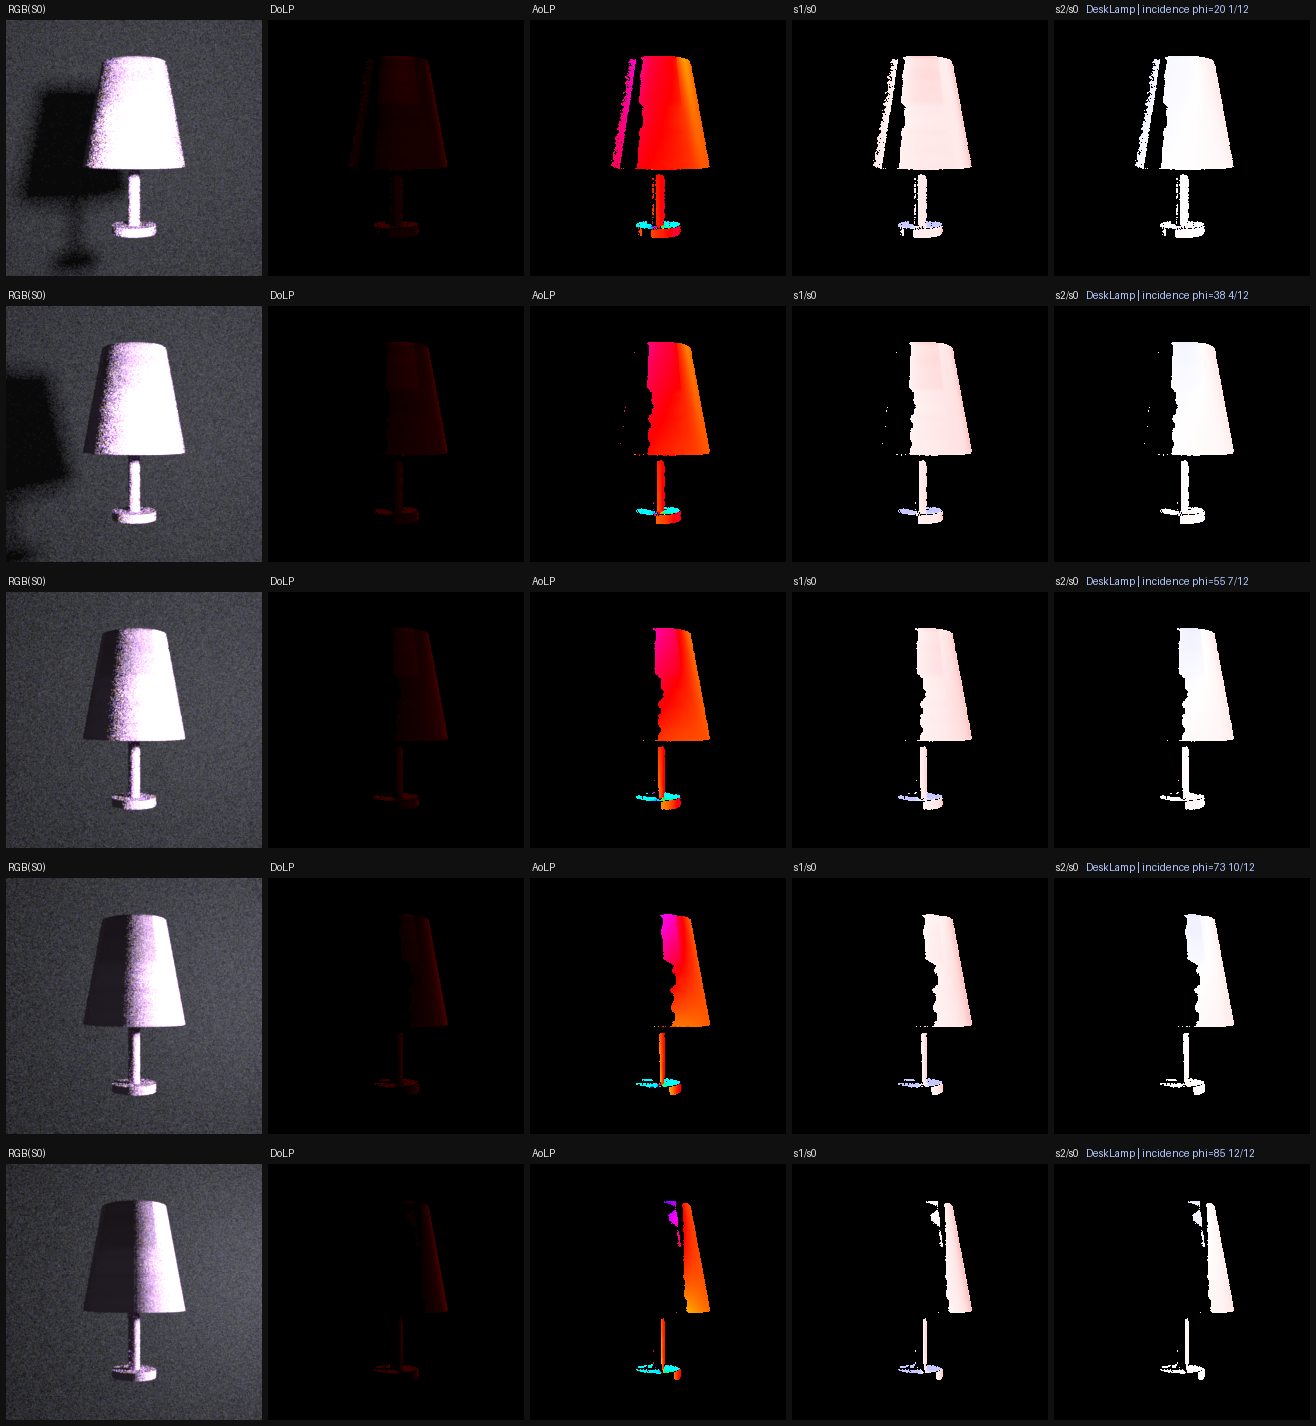
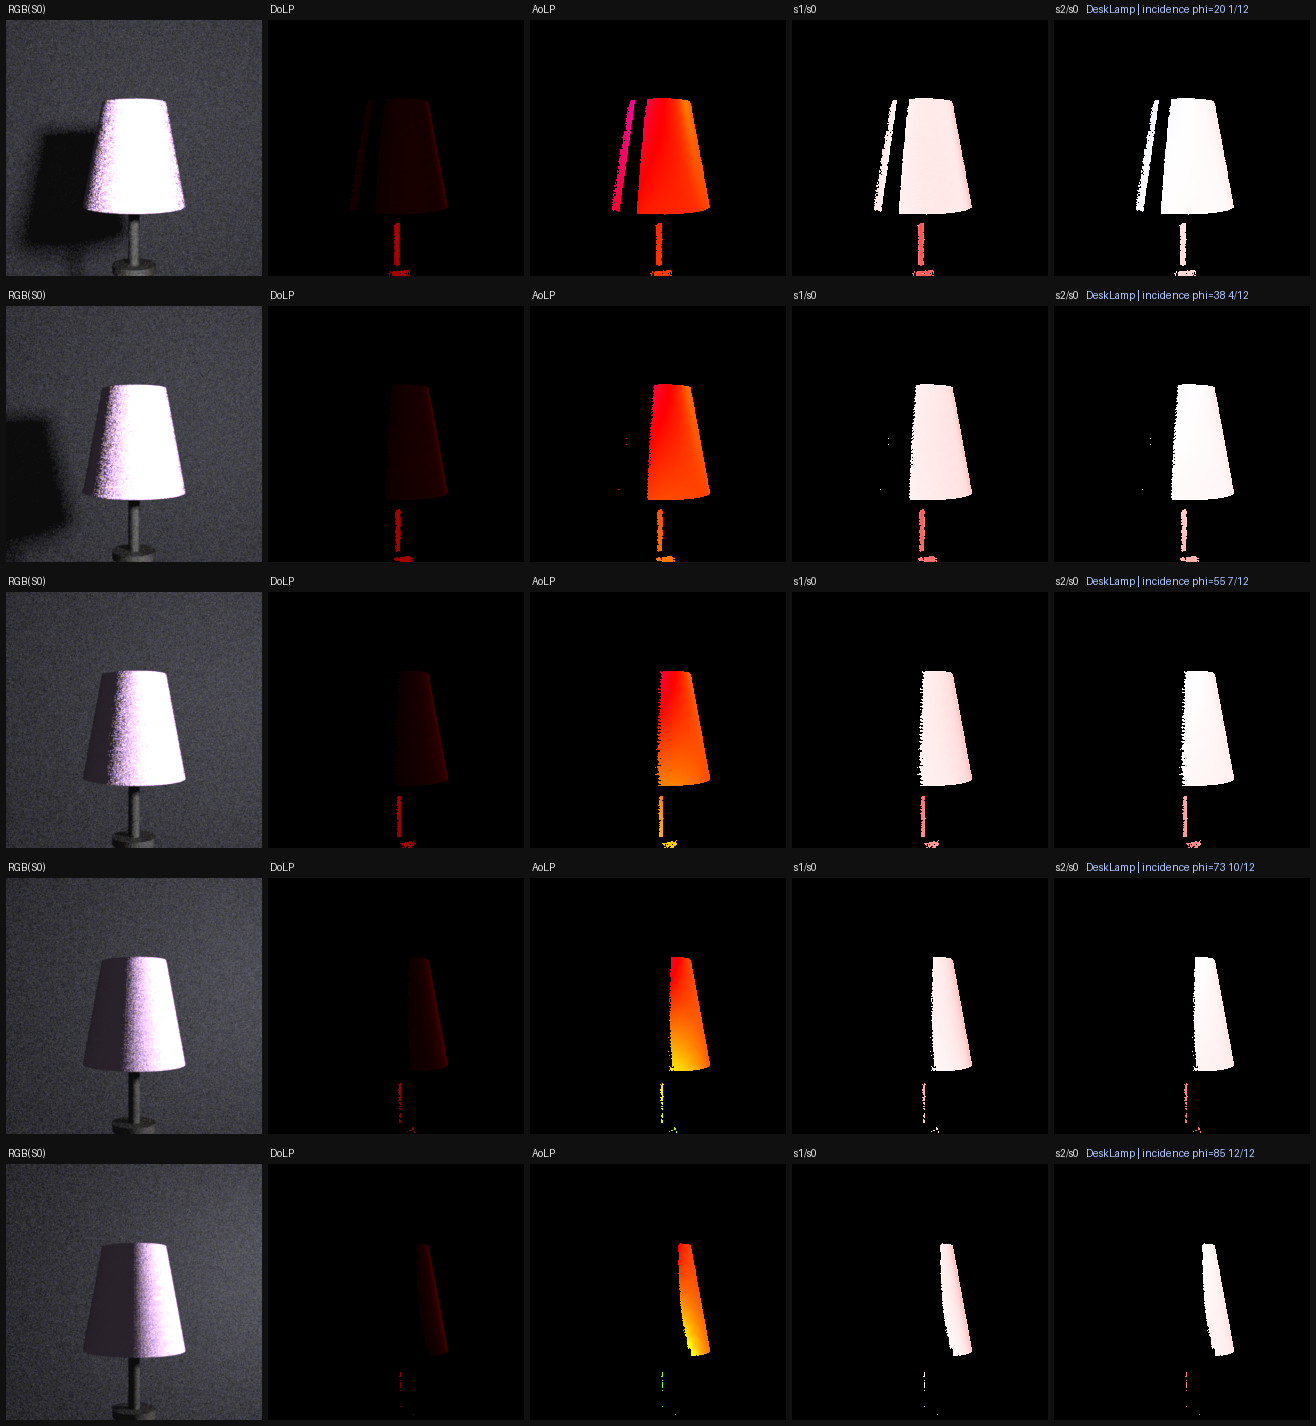
dev_report(0706): multi-material split + glb-consumption pipeline finding
- Multi-material rendering: split each glb into per-geometry parts by
  visual.material.name -> manifest optical_class -> BSDF. jar now renders
  glass body (dielectric) + wood cap (pplastic); tvstand renders brushed-metal
  frame (roughconductor) + wood top (pplastic+texture) separately.
- Glass fireflies: spp16000 + path max_depth=8 + 99.5-pct display clamp.
- Pipeline finding (documented in report §5): the OpticalNav render path
  consumes .obj meshes; the Infinigen import writes UV-less .obj
  (import_infinigen_scene.py source_ref), so baked textures can't map and
  there's no per-material split. The .glb retains UVs + per-material geometry,
  and glb_texture_adapter.py already bridges GLB->per-material OBJ(+has_uv,
  +textures) — but only for the DTC catalog. Recommend routing Infinigen
  imports through the glb path too.

diff --git a/dev_report/report_2026-07-06_optical_class_polarization.html b/dev_report/report_2026-07-06_optical_class_polarization.html
@@ -70,7 +70,7 @@
 <figure><img src="images/0706_optclass_tap_polrot.gif" alt="tap polrot"><figcaption>polarizer 회전. AoLP/s1/s2가 조명 각도를 따라 회전.</figcaption></figure>
 
 <h3>#2 glass — 유리병 (<code>dielectric</code>)</h3>
-<figure><img src="images/0706_optclass_jar_orbit.gif" alt="jar orbit"><figcaption>입사각 궤도. 투명 유리는 <b>specular 하이라이트에서만</b> 편광이 뜨고 grazing으로 갈수록 DoLP↑(Brewster). smooth <code>dielectric</code>으로 렌더(roughdielectric은 DoLP=0).</figcaption></figure>
+<figure><img src="images/0706_optclass_jar_orbit.gif" alt="jar orbit"><figcaption>입사각 궤도. 유리 몸통(<code>dielectric</code>)과 나무 뚜껑(<code>pplastic</code>)을 multi-material로 분리. 투명 유리는 <b>specular 하이라이트에서만</b> 편광, grazing으로 갈수록 DoLP↑(Brewster). 투과 특성상 남는 grain은 spp16000 + <code>max_depth</code> 제한 + firefly 클램프로 완화.</figcaption></figure>
 <figure><img src="images/0706_optclass_jar_polrot.gif" alt="jar polrot"><figcaption>polarizer 회전.</figcaption></figure>
 
 <h3>#3 diffuse-textured — 식품상자 (<code>pplastic</code> + 라벨 텍스처)</h3>
@@ -82,16 +82,27 @@
 <figure><img src="images/0706_optclass_lampshade_polrot.gif" alt="lampshade polrot"><figcaption>polarizer 회전.</figcaption></figure>
 
 <h3>#5 brushed-metal — TV장 (Q3)</h3>
-<figure><img src="images/0706_optclass_tvstand_orbit.gif" alt="tvstand orbit"><figcaption><b>metallic=0.0</b>인데 optical_class=metal이라 conductor로 렌더 → 금속처럼 DoLP≈0.9로 강편광. 값(metallic=0)과 렌더(conductor)의 불일치가 편광으로 드러난다. (단일 BSDF 주입이라 나무 부분도 금속으로 렌더 — multi-material 분리는 후속.)</figcaption></figure>
+<figure><img src="images/0706_optclass_tvstand_orbit.gif" alt="tvstand orbit"><figcaption><b>multi-material 분리</b>: 금속 프레임(<code>roughconductor</code>)과 나무 상판(<code>pplastic</code>+텍스처)을 각 geometry로 나눠 주입. 이 각도에선 나무 상판이 보여 DoLP가 약하지만, 금속 프레임은 <b>metallic=0.0인데도 conductor로 렌더</b>돼 강편광한다(값과 렌더의 불일치 = Q3).</figcaption></figure>
 <figure><img src="images/0706_optclass_tvstand_polrot.gif" alt="tvstand polrot"><figcaption>polarizer 회전.</figcaption></figure>
 
-<h2>4. 결론</h2>
+<h2>5. 파이프라인 정리 — Infinigen은 <code>.obj</code> 대신 <code>.glb</code>를 소비해야</h2>
+<p>이번 작업에서 드러난 구조적 이슈: <b>OpticalNav 렌더 경로는 <code>.obj</code> 메시를 소비</b>하는데(<code>import_infinigen_scene.py:547</code> <code>source_ref=&lt;import&gt;/meshes/&lt;id&gt;.obj</code>), Infinigen import의 <code>.obj</code>는 <b>UV(vt)를 잃어버린다</b>(대부분 vt=0). 그래서 베이크된 albedo/텍스처를 렌더에서 매핑할 수 없고 per-material 분리도 안 된다.</p>
+<p>반면 같은 오브젝트의 <code>.glb</code>에는 <b>UV와 material별 geometry가 온전히 살아있다</b>(본 작업은 trimesh로 glb를 로드해 per-material UV 메시로 복원 → 베이크 텍스처 매핑 + per-material BSDF 성공).</p>
+<p>중요한 건 <b>이미 그 machinery가 코드베이스에 있다</b>는 점이다 — <code>glb_texture_adapter.py</code>는 GLB를 <b>per-material OBJ 파트(<code>has_uv</code> 추적) + 추출 텍스처</b>로 브리지한다. 다만 이건 현재 <b>DTC 카탈로그 전용</b>(<code>vendor_datasets/dtc_objects/*/3d-asset.glb</code>)이고, Infinigen import는 이 경로를 타지 않는다.</p>
+<table>
+<tr><th>자산</th><th>source_ref</th><th>UV</th><th>텍스처</th><th>per-material</th></tr>
+<tr><td>DTC 카탈로그</td><td><code>.glb</code> → glb_texture_adapter</td><td>✅</td><td>✅ 추출</td><td>✅ 분리</td></tr>
+<tr><td>Infinigen import</td><td><code>.obj</code> (UV 없음)</td><td>❌</td><td>❌ 매핑 불가</td><td>❌</td></tr>
+</table>
+<p><b>권장</b>: Infinigen import도 <code>.glb</code>를 source로 참조하고 <code>glb_texture_adapter</code>(또는 그 확장)를 태워서 UV·베이크 텍스처·per-material 분리를 렌더 경로에서 사용하도록 개선. blender export 단계에서 UV 보존 <code>.obj</code>를 쓰는 방법도 있으나, glb 경로 재사용이 기존 계약(OBJ + extracted_material)과 호환되어 더 간단하다.</p>
+
+<h2>6. 결론</h2>
 <ul>
 <li><b>편광은 optical class를 분리한다</b>: 금속(DoLP~0.9) &gt; 유리(specular만) &gt; diffuse(pplastic 약한 코팅 편광). RGB만으로는 안 보이는 구분이 편광 채널에서 드러난다.</li>
 <li><b>플러그인 트리오</b>: <code>conductor</code>(금속) + <code>dielectric</code>(유리) + <code>pplastic</code>(diffuse/plastic). <code>roughdielectric</code>·<code>roughplastic</code>은 편광 미지원(DoLP=0)이라 금지.</li>
 <li><b>텍스처/색</b>: <code>.glb</code>의 UV를 복원해 베이크 albedo를 매핑 → S0가 실제 재질 색(라벨·직물색)을 담는다. <code>.obj</code> export는 UV를 잃으므로 glb를 써야 한다.</li>
 <li><b>유리 = IOR-only</b> · <b>brushed-metal(#5)</b>는 metallic=0 무관하게 conductor로 편광.</li>
-<li><b>후속</b>: multi-material 오브젝트(tvstand 금속+나무, jar 유리+나무) per-material BSDF 분리 렌더.</li>
+<li><b>multi-material</b>: glb는 material별 geometry로 분리돼 있어(<code>visual.material.name</code>=manifest 재질명) per-geometry BSDF 주입 가능 → jar(유리+나무), tvstand(금속+나무)를 정확히 렌더.</li>
 </ul>
 
 </body></html>
